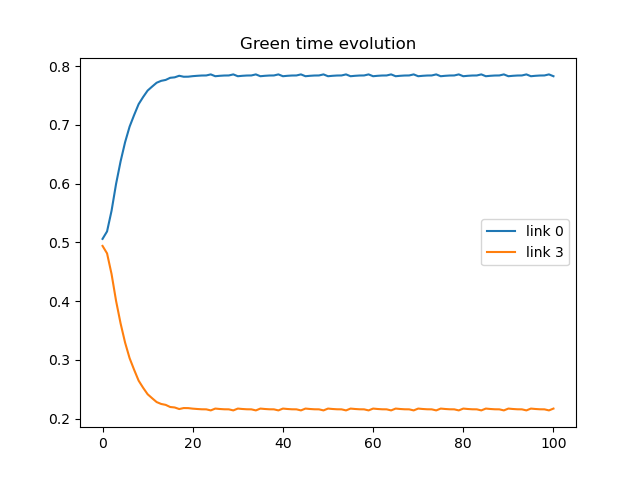
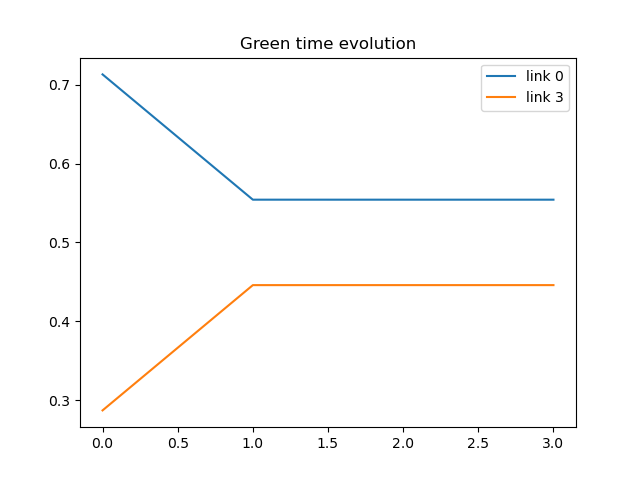
added auto run for all cases + results of all cases

diff --git a/ownCode/main.py b/ownCode/main.py
@@ -13,21 +13,38 @@ from bokeh.resources import CDN
 from bokeh.io import export_png
 
 
+def autoRunMain():
+    w = 'WebsterTwoTerm'
+    b = 'bpr'
+    e = 'equisaturation'
+    p = 'P0'
+    g1 = {0: 0.5, 1: 1, 2: 1, 3: 0.5}
+    g2 = {0: 0.4, 1: 1, 2: 1, 3: 0.6}
+    g3 = {0: 0.2, 1: 1, 2: 1, 3: 0.8}
+    g4 = {0: 0.6, 1: 1, 2: 1, 3: 0.4}
+    g5 = {0: 0.8, 1: 1, 2: 1, 3: 0.2}
 
+    greens = [g1,g2,g3,g4,g5]
+    green_policy = ['50-50','40-60','20-80','60-40','80-20']
+    cases = [(b,e),(b,p),(w,e),(w,p)]
+
+    for idx,green in enumerate(greens): 
+        for (cost, policy) in cases:
+            main(cost,policy,green, green_policy[idx])
 
 #main function where we merge everything together
-def main():
+def main(methodCost, methodGreen, firstGreen, greenPolicy):
     demands = [95,105,115,125,145]
     for demand_i in demands:
             #two cost functions at the moment
             # 'bpr' to use the bpr cost function
             # 'WebsterTwoTerm' to use the webster two term delay cost function
-        methodCost = 'WebsterTwoTerm'
+        #methodCost = 'WebsterTwoTerm'
 
             #two green time policies
             # 'equisaturation' 
             # 'P0'
-        methodGreen = 'equisaturation'
+        #methodGreen = 'equisaturation'
 
         plot = True
 
@@ -51,7 +68,7 @@ def main():
 
         #starting with 0.5 at every two link node
             #hardCoded for simple
-        firstGreen = {0: 0.5, 1: 1, 2: 1, 3: 0.5}
+        #firstGreen = {0: 0.5, 1: 1, 2: 1, 3: 0.5}
             #hardCoded for complex 
         #firstGreen = {0: 1, 1: 1, 2: 0.5, 3: 1, 4: 1, 5: 1, 6: 1, 7: 0.5, 8: 0.5, 9: 1, 10: 1, 11: 1, 12: 0.5, 13: 0.5, 14: 1, 15: 0.5}
         summary_string += "initial greens: link 0 = {},   link 3 = {}\n".format(firstGreen[0], firstGreen[3])
@@ -166,11 +183,10 @@ def main():
             listOfPlots.append('dos.png')
                 
 
-        print(summary_string)
-        create_summary(listOfPlots, summary_string, methodCost, methodGreen, demand )
+        #print(summary_string)
+        create_summary(listOfPlots, summary_string, methodCost, methodGreen, demand, greenPolicy )
 
 
+autoRunMain()
 
 
-
-main()

diff --git a/ownCode/network_summary.py b/ownCode/network_summary.py
@@ -2,6 +2,7 @@ import pathlib
 from PIL import Image, ImageDraw, ImageFont
 import numpy as np
 from html2image import Html2Image
+import os
 #install opencv-python for this (via pip)
 import cv2
 
@@ -14,7 +15,7 @@ def text_to_image(textString):
     img.save(str(pathlib.Path(__file__).parent)+'/summaryFiles/rawFigures/'+file_name)
     return file_name
 
-def create_summary(listOfPlots, string, method, policy, demand):
+def create_summary(listOfPlots, string, method, policy, demand, greenPolicy):
     text_image = text_to_image(string)
     listOfPlots.insert(1,text_image)
     vstack = []
@@ -31,8 +32,9 @@ def create_summary(listOfPlots, string, method, policy, demand):
             hstack.append(np.full((400,500,3),255, np.uint8))
             vstack.append(np.hstack(hstack))      
     vstack = np.vstack(vstack)
-
-    cv2.imwrite(str(pathlib.Path(__file__).parent)+'/summaryFiles/summary_{}_{}_D={}.png'.format(method, policy, demand), vstack)
+    path = str(pathlib.Path(__file__).parent)+'/summaryFiles/D={}/'.format(demand)
+    os.makedirs(path, exist_ok=True)
+    cv2.imwrite(path+'summary_{}_{}_{}.png'.format(method, policy, greenPolicy), vstack)
 
 
 

diff --git a/ownCode/dyntapy_green_time_change.py b/ownCode/dyntapy_green_time_change.py
@@ -115,7 +115,7 @@ def msa_green_flow_averaging(
         # print("done")
         if k == 1:
             converged = False
-            last_gap = 10
+            last_gap = 10**15
             gaps.append(last_gap)
 
         else:
@@ -123,7 +123,6 @@ def msa_green_flow_averaging(
             current_gap = gap(f1, costs, demand.to_destinations.values, ssp_costs)
             
             converged = current_gap < msa_delta or k == msa_max_iterations
-
 
             #to check in terminal if the msa converged or was ended by max iterations
             if converged == True: 
